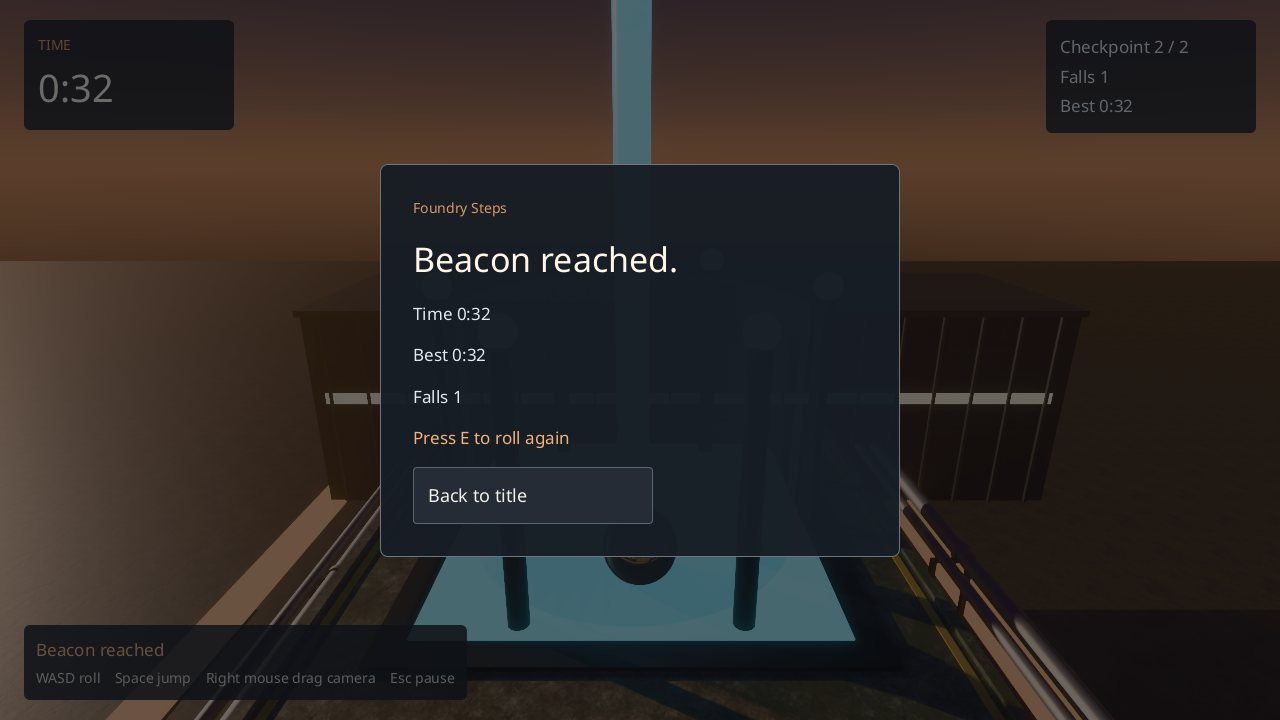
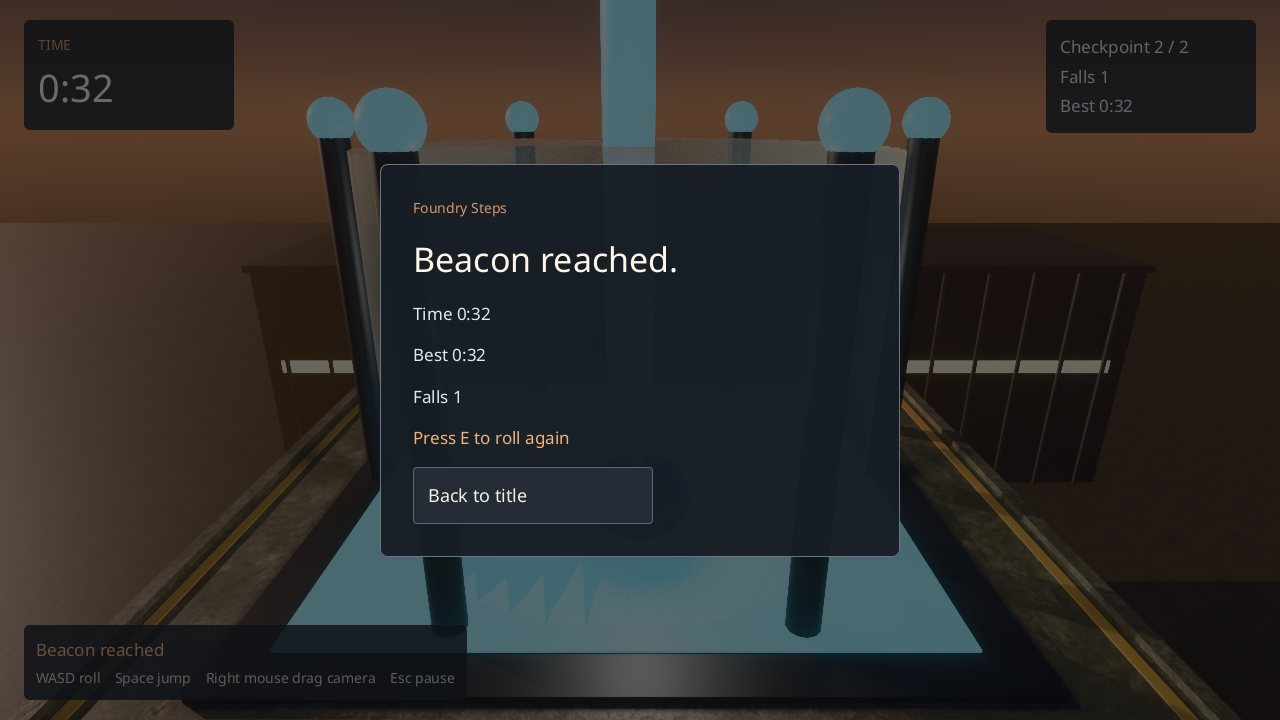
Glint look 3/3: the ball and the camera
A closer follow camera with the route ahead (distance 5.5, height 1.4, pitch 20, fov 56), a chrome
ball with a faint emissive floor and a soft warm light above it for a highlight and a soft
contact shadow. README documents exposure and the light table; two more gaps. Replay: 1947
ticks, same hash on every run.

diff --git a/crates/ara-samples/src/build/glint/mod.rs b/crates/ara-samples/src/build/glint/mod.rs
@@ -228,10 +228,11 @@ fn game(ctx: &Ctx) -> Result<()> {
         "Camera",
         json!({
             "Transform": {"position": [0, 3.5, -9]},
-            "Camera": {"fov": 60},
-            "FollowCamera": {"target": "e_ball", "distance": 7.5, "height": 2.6, "pitch": 18},
+            "Camera": {"fov": 56},
+            "FollowCamera": {"target": "e_ball", "distance": 5.5, "height": 1.4, "pitch": 20},
         }),
     );
+    s.commands.push(ball_glow("e_ball"));
     // An establishing shot for previews; a higher priority number keeps the follow camera active.
     s.entity(
         "e_camwide",
@@ -245,9 +246,22 @@ fn game(ctx: &Ctx) -> Result<()> {
     ctx.set_main(SCENE.0, SCENE.1)
 }
 
+/// A soft, warm light carried above the ball: it puts a bright highlight on the chrome and a
+/// soft contact shadow under it (a source radius of 0.6 m gives the penumbra).
+fn ball_glow(parent: &str) -> (&'static str, Value) {
+    (
+        "entity.create",
+        json!({"id": format!("{parent}g"), "name": "Ball glow", "parent": parent, "components": {
+            "Transform": {"position": [0, 1.3, 0]},
+            "Light": {"kind": "point", "color": [1.0, 0.88, 0.7, 1], "intensity": 1_500_000, "units": "lumens",
+                "range": 14, "sourceRadius": 0.6},
+        }}),
+    )
+}
+
 /// The chrome ball's renderer fields.
 fn ball_look() -> Value {
-    json!({"shape": "sphere", "size": [1, 1, 1], "color": [0.95, 0.95, 0.95, 1], "roughness": 0.04, "metallic": 1})
+    json!({"shape": "sphere", "size": [1, 1, 1], "color": [0.97, 0.97, 0.98, 1], "roughness": 0.03, "metallic": 1, "emissive": [180, 175, 170]})
 }
 
 /// Checkpoint pads and the goal: lit plates; `play` adds the components the director reads.
@@ -296,6 +310,7 @@ fn menu(ctx: &Ctx) -> Result<()> {
     }
     pads(&mut s, &models, false);
     s.entity("e_menuball", "Ball", json!({"Transform": {"position": [0.0, 0.5, 6.0]}, "MeshRenderer": ball_look()}));
+    s.commands.push(ball_glow("e_menuball"));
     s.entity("e_gamemenueye", "Menu vista camera", json!({"Transform": {"position": [-5.5, 3.4, -7.0]}}));
     s.entity("e_gamemenutarget", "Menu vista focus", json!({"Transform": {"position": [0.0, 0.8, 24.0]}}));
     let calls = std::mem::take(&mut s.commands);

diff --git a/samples/glint/README.md b/samples/glint/README.md
@@ -25,6 +25,25 @@ ara-samples glint-replay --captures target/glint-shots  # also write start, mid-
 Controls: WASD roll, Space jump, right mouse drag orbits the camera, Esc pauses, E restarts
 after the goal. The shell's action set is fixed (see FINDINGS), so restart is `Interact`.
 
+## Light (documented, fixed)
+
+Physical units, one fixed exposure, no auto-exposure. The look is dusk with contrast: a low sun
+raking across the route, a dark sky and yard, and warm local lights.
+
+| | |
+|---|---|
+| Exposure | fixed **EV100 11.0**, Khronos PBR Neutral, no bloom or grading |
+| Sun | 25,000 lux on a surface facing it, colour (1.0, 0.7, 0.48), light travels (-0.85, -0.22, -0.47): about 13 degrees above the horizon, from the right and ahead |
+| Sky | gradient numbers: zenith (0.03, 0.06, 0.2), horizon (0.8, 0.4, 0.2), glow (0.7, 0.2, 0.05), 1,200 cd/m2 scale; a very thin warm height fog (density 0.0001) |
+| Furnace mouths (2) | point, 15,000,000 lm, radius 2 m, range 90 m, at the mouths of the furnaces beside the route |
+| Furnace feet (4) | point, 6,000,000 lm, radius 1.6 m, range 90 m, at the chimneys' bases |
+| Checkpoint lights (2) | point, 150,000 lm, radius 0.3 m, range 18 m, amber, 2.4 m above each pad |
+| Goal light | point, 300,000 lm, radius 0.5 m, range 30 m, cyan |
+| Ball glow | point, 1,500,000 lm, radius 0.6 m, range 14 m, carried 1.3 m above the ball (the highlight and the soft contact shadow) |
+
+Magnitudes look absurd next to a lamp's 900 lm because the sun is 25 klux: a local light only
+shows where it beats the sun, so the lights that read from a distance are millions of lumens.
+
 ## The deterministic replay
 
 `samples/glint/replay/foundry.json` is a full run: 483 injected actions at exact fixed ticks, a

diff --git a/samples/glint/FINDINGS.md b/samples/glint/FINDINGS.md
@@ -73,3 +73,12 @@ No engine code was changed. Items marked *from reading* were not confirmed by ru
 12. **The goal fired while the ball was still in the air** over the goal island (my script:
     a position test only). Fixed by requiring a grounded ball, which moved the recorded
     finish from 1929 to 1947 ticks. A useful accident: the replay caught the change.
+13. **No albedo or other debug views on Renderlab.** `ara capture --view albedo` fails with
+    `ARA_VIEW_MODE_UNAVAILABLE ... the renderlab-rt renderer draws the lit image only`, so a
+    surface that renders brighter or darker than its material (the first dusk's orange wash
+    over a 0.035-albedo yard) cannot be split into light and material; the fix was to change
+    the light and look.
+14. **`FollowCamera` framing is undocumented in effect.** `distance`, `height` and `pitch`
+    interact so that the ball sat 75 to 90 percent of the way down the frame for the first
+    three settings tried; (distance 5.5, height 1.4, pitch 20) puts it at about 65 percent.
+    Found by capturing each setting; the schema docs do not say where the ball lands.
